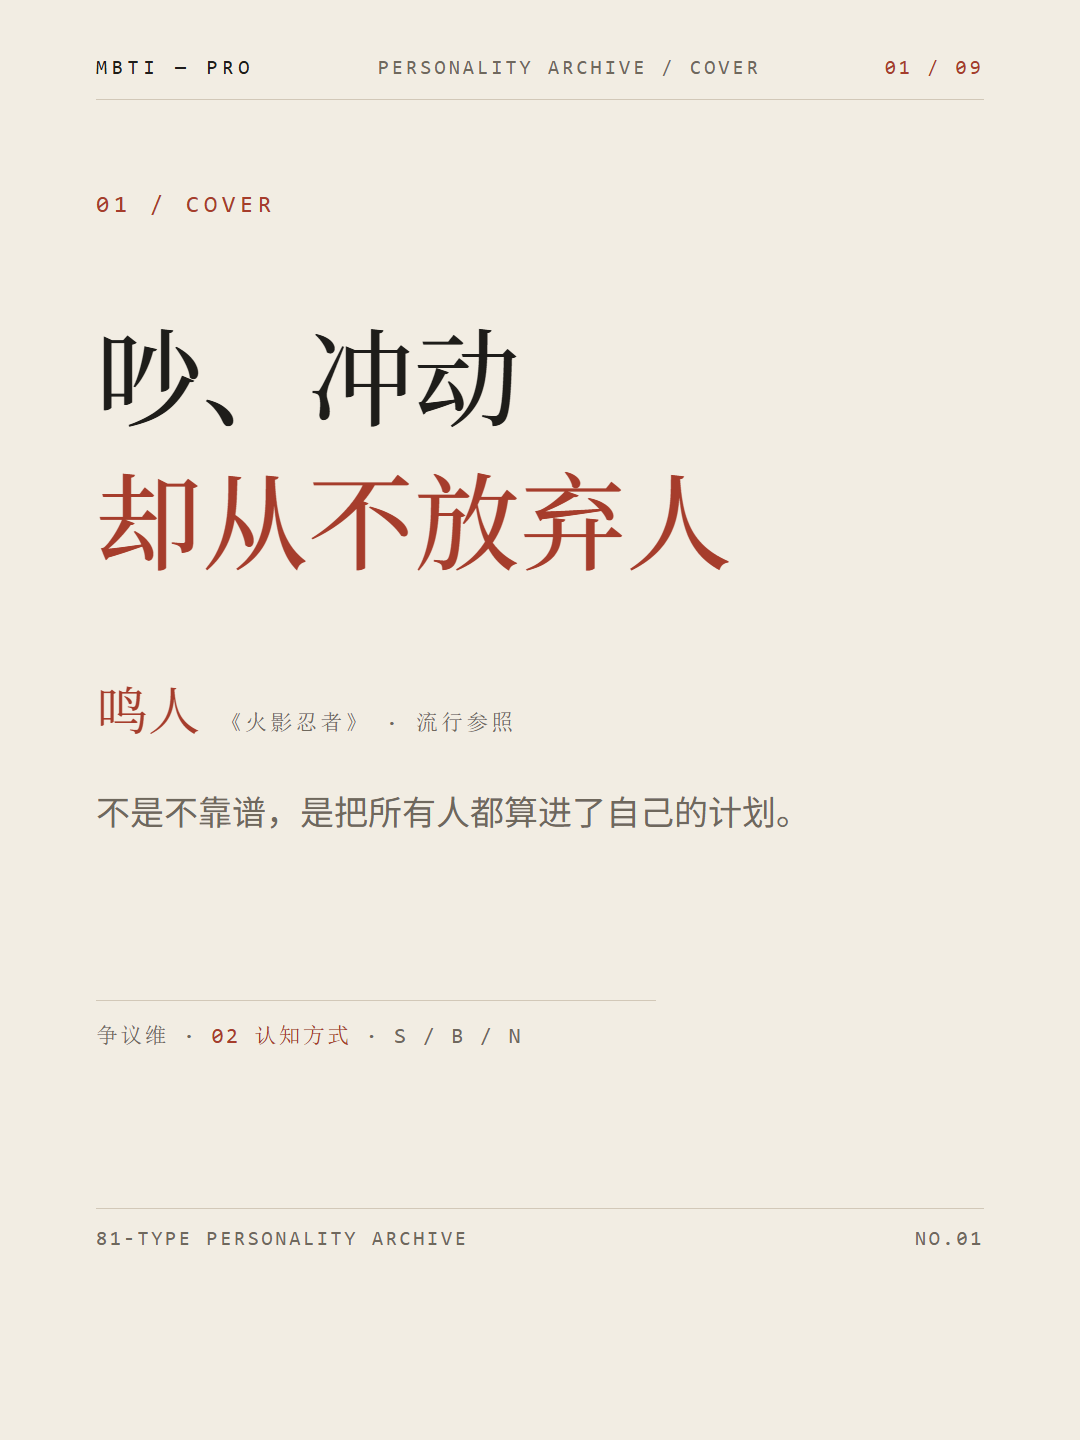
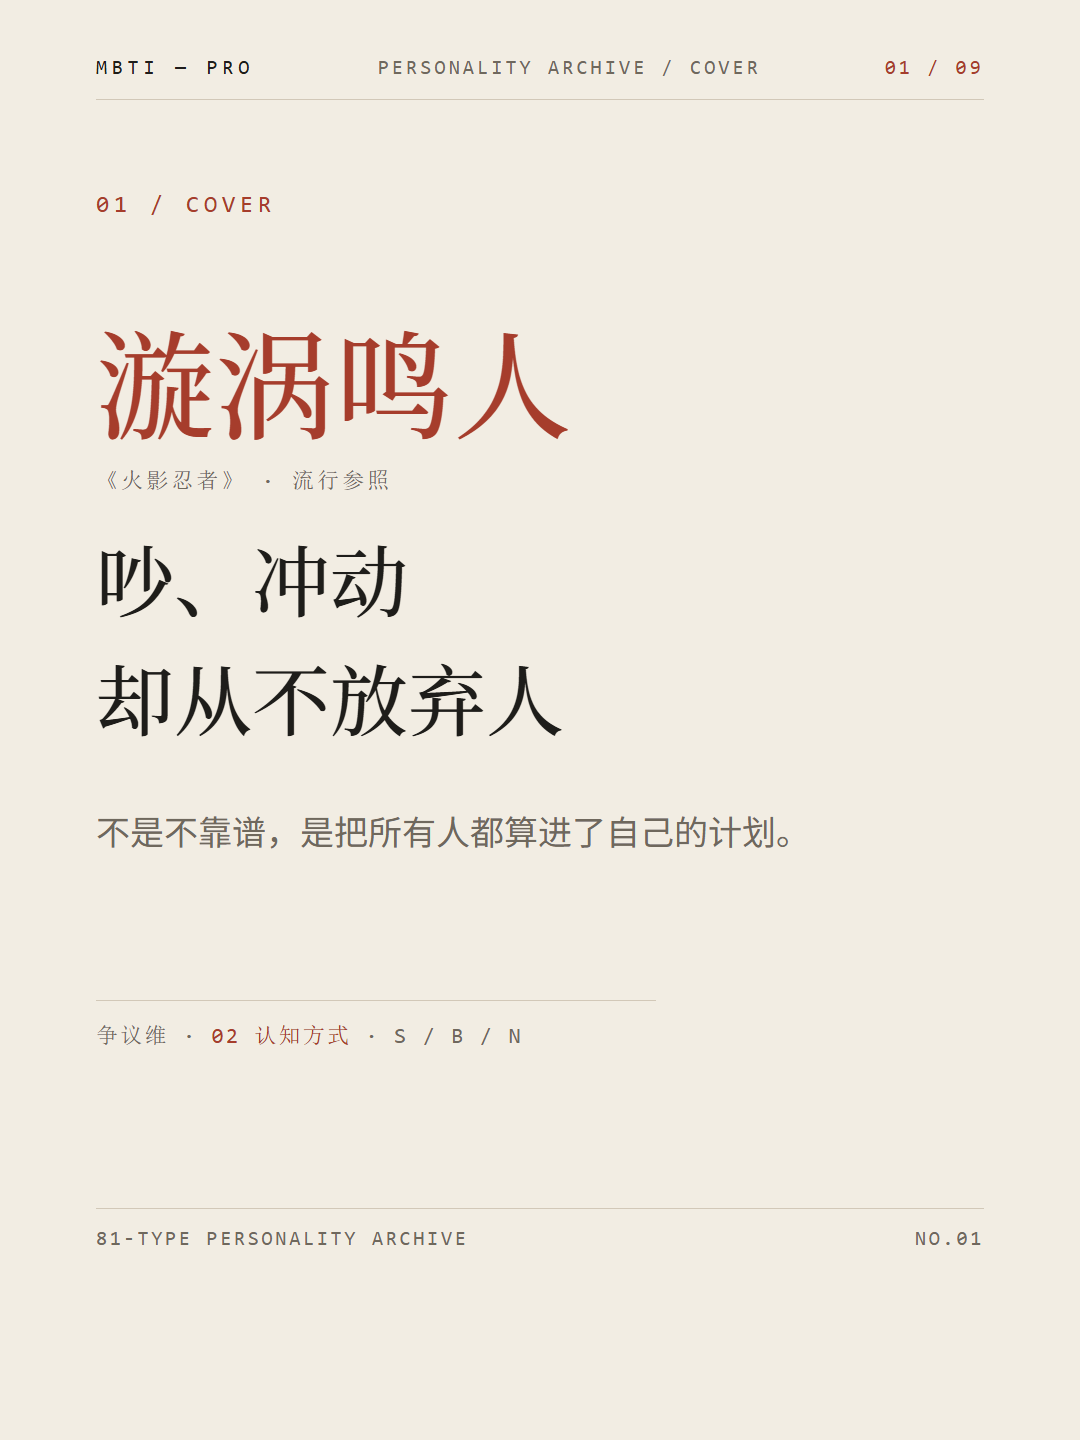
封面改版：人物名升为第一视觉（漩涡鸣人朱砂大字），发布包改单文件夹
按用户意见：
- 封面 P1 层级重排：人物名 118–168px 朱砂（按字数分档）→ 作品 + 流行参照小字
  → 钩子两行 62–78px 墨色（按最长一行自动降档）→ 关系句 → 争议维注脚
- notes-data：day1 新增 person.coverName='漩涡鸣人'（P8 人物卡仍用「鸣人」）
- day2 封面钩子改为「他不是 ESTJ / 是 ENTD」，避免与上方大字名重复
- build-week 的 P1 说明同步为「朱砂大字人物名（封面第一视觉）」
- 63 张全部重渲染；audit-cards 报「无溢出、无压脚、无重叠」
- build-publish-pack：不再产出 zip，改为单文件夹（9 图 + 00-发布包（先看这个）.txt，
  内含发布 5 步 / 标题 / 正文 / 话题 / 首评 / 图片顺序 / 免责）
- 桌面副本 C:/Users/Administrator/Desktop/小红书Day1-漩涡鸣人-2026-11-13/ 便于直传手机
- README 新增 §13 记录封面改版，§7 标注已被取代

diff --git a/docs/xhs-daily/template/cards.html b/docs/xhs-daily/template/cards.html
@@ -30,12 +30,14 @@ body { background:#DDD8CE; padding:40px 0; }
   color:var(--accent); }
 .hl { color:var(--accent); }
 
-/* 主：钩子文案 + 知名人物 + 争议点；次：结论句；注脚：类型码/坐标/公式/九组色 */
-.p1 .cover-title { position:absolute; left:96px; top:300px; font-size:106px; line-height:1.36; font-weight:500; }
-.p1 .person-line { position:absolute; left:96px; top:670px; font-size:52px; color:var(--accent); }
-.p1 .person-line span { font-size:22px; color:var(--muted); letter-spacing:.14em; margin-left:20px;
-  font-family:'DM Mono','Consolas',monospace; }
-.p1 .person-link { position:absolute; left:96px; top:780px; width:820px;
+/* 主：知名人物 + 钩子文案 + 争议点；次：关系句；注脚：类型码/坐标/公式/九组色 */
+/* 封面把「人物名」提到第一位并放到最大：15–35 岁受众先认人，再读钩子 */
+.p1 .name-wrap { position:absolute; left:96px; top:232px; height:206px; display:flex; align-items:flex-end; }
+.p1 .cover-name { line-height:1; color:var(--accent); letter-spacing:.01em; font-weight:500; }
+.p1 .person-work { position:absolute; left:96px; top:468px; font-size:22px; letter-spacing:.14em;
+  color:var(--muted); font-family:'DM Mono','Consolas',monospace; }
+.p1 .cover-title { position:absolute; left:96px; top:518px; font-size:78px; line-height:1.52; font-weight:500; }
+.p1 .person-link { position:absolute; left:96px; top:800px; width:840px;
   font-size:34px; line-height:1.8; color:var(--muted); }
 .p1 .dtag { position:absolute; left:96px; top:1000px; width:560px; padding-top:22px;
   border-top:1px solid var(--rule); font-size:22px; letter-spacing:.1em; color:var(--muted); }
@@ -133,6 +135,7 @@ const NOTE_LIBRARY = {
     "no": 1,
     "person": {
       "name": "鸣人",
+      "coverName": "漩涡鸣人",
       "work": "《火影忍者》",
       "field": "主角",
       "story": "从小被村里孤立，却天天喊着要成为火影；把每个被丢下的人都一个个拉回来。",
@@ -234,7 +237,7 @@ const NOTE_LIBRARY = {
       "link": "想得远，也肯把刚定的方案当场推翻。"
     },
     "coverLines": [
-      "钢铁侠不是 ESTJ",
+      "他不是 ESTJ",
       "是 ENTD"
     ],
     "coverHighlight": "是 ENTD",
@@ -816,12 +819,17 @@ const shell = (inner, n) => `<section class="page">
   <div class="footer mono"><span>81-TYPE PERSONALITY ARCHIVE</span><span>NO.${no2}</span></div>
 </section>`;
 
-const hlLine = t => t.includes(NOTE.coverHighlight)
-  ? '<span class="hl">' + esc(t) + '</span>' : esc(t);
+// 封面人物名优先：名字按字数分档放大，钩子按最长一行自动降档，避免压住下方关系句
+const coverName = NOTE.person.coverName || NOTE.person.name;
+const cnLen = [...coverName].length;
+const namePx = cnLen <= 2 ? 168 : cnLen === 3 ? 140 : 118;
+const maxHook = Math.max(...NOTE.coverLines.map(l => [...l].length));
+const hookPx = maxHook <= 6 ? 78 : maxHook <= 8 ? 70 : 62;
 
 const p1 = `<div class="p1" style="position:absolute;inset:0">
-  <div class="cover-title serif">${NOTE.coverLines.map(hlLine).join('<br>')}</div>
-  <div class="person-line serif">${esc(NOTE.person.name)}<span>${esc(NOTE.person.work || '')} · 流行参照</span></div>
+  <div class="name-wrap"><div class="cover-name serif" style="font-size:${namePx}px">${esc(coverName)}</div></div>
+  <div class="person-work">${esc(NOTE.person.work || '')} · 流行参照</div>
+  <div class="cover-title serif" style="font-size:${hookPx}px">${NOTE.coverLines.map(t => esc(t)).join('<br>')}</div>
   <div class="person-link">${esc(NOTE.person.link)}</div>
   <div class="dtag mono">争议维 · <b>${esc(D.dimNo)} ${esc(D.dimName)}</b> · ${esc(D.scale)}</div>
 </div>`;

diff --git a/docs/xhs-daily/week1/day1-发布包-2026-11-13.md b/docs/xhs-daily/week1/day1-发布包-2026-11-13.md
@@ -2,8 +2,12 @@
 
 > **这篇是账号第一篇**，目标是「让人看懂 81 型到底多出来的 65 种是什么」，不是卖货。
 > 图上不出现价格、二维码、店铺名；承接只走小红书店铺商品组件。
-> 图片：`docs/xhs-daily/week1/day1-发布包-2026-11-13/01.png … 09.png`（9 张 1080×1440，3:4）
-> 手机一键传：`docs/xhs-daily/week1/day1-发布包-2026-11-13.zip`（0.64 MB，含 9 图 + 文案.txt）
+> **发布包（一个文件夹，9 图 + 1 份文案）**：
+> · 项目内：`docs/xhs-daily/week1/day1-发布包-2026-11-13/`
+> · 桌面副本（传手机用）：`C:\Users\Administrator\Desktop\小红书Day1-漩涡鸣人-2026-11-13\`
+> 文件夹里：`00-发布包（先看这个）.txt` + `01.png … 09.png`（1080×1440，3:4）
+
+**传到手机的 2 步**：打开桌面那个文件夹 → `Ctrl+A` 全选 → 拖进微信「文件传输助手」→ 手机端点开 9 张图，逐张保存到相册（顺序即 01→09）。
 
 **线上状态已核（2026-11-13 02:08，我实际拉取）**
 
@@ -22,7 +26,7 @@
 
 | # | 动作 | 说明 |
 |---|---|---|
-| ① | 把 zip 发到手机（微信文件传输助手 / AirDrop） | 解压后是 01–09.png + 文案.txt |
+| ① | 把桌面文件夹里的 10 个文件传到手机 | 全选 → 微信「文件传输助手」→ 手机保存 9 张图 |
 | ② | 确认商品在架可售 | 店铺里那个 0.99 的 81 型报告，库存/自动发货正常 |
 | ③ | 确认自己能用兑换码解锁一型 | 别让第一个买家撞上「码无效」 |
 
@@ -79,7 +83,7 @@
 
 | 页 | 图上内容 | 文件 |
 |---|---|---|
-| P1 | 封面：`吵、冲动 / 却从不放弃人` + 朱砂「鸣人《火影忍者》· 流行参照」+ 关系句 | `01.png` |
+| P1 | 封面：**朱砂大字「漩涡鸣人」（118px，第一视觉）** → 小字「《火影忍者》· 流行参照」→ 钩子两行「吵、冲动 / 却从不放弃人」（78px 墨色）→ 关系句 → 争议维小字 | `01.png` |
 | P2 | 争议：`他到底是 N 还是 S，粉丝吵了很多年` + E/F/P 三维无争议 | `02.png` |
 | P3 | 说他像 N（目标看不见、没人能验证，还是拿命换） | `03.png` |
 | P4 | 说他像 S（靠身体记、讲原理听不懂、练一百遍就会） | `04.png` |

diff --git a/docs/xhs-daily/week1/day3.md b/docs/xhs-daily/week1/day3.md
@@ -44,7 +44,7 @@
 
 | 页 | 图上内容 |
 |---|---|
-| P1 | 钩子两行大字（主）｜**朱砂人物名 宇智波鼬 + 流行参照标签**｜下方关系句 ｜ 底部小字：争议维 03 决策方式 |
+| P1 | **朱砂大字人物名 宇智波鼬（封面第一视觉）** ｜ 作品 + 流行参照小字 ｜ 下方钩子两行 ｜ 底部小字：争议维 03 决策方式 |
 | P2 | 争议大字：「一个人灭掉自己全族，这算冷血，还是算深情？」｜I、N、J 三维没什么分歧，吵的全是第 03 维。 |
 | P3 | 像 T 的地方（T 一侧的证据） |
 | P4 | 像 F 的地方（F 一侧的证据） |

diff --git a/docs/xhs-daily/week1/day4.md b/docs/xhs-daily/week1/day4.md
@@ -44,7 +44,7 @@
 
 | 页 | 图上内容 |
 |---|---|
-| P1 | 钩子两行大字（主）｜**朱砂人物名 路飞 + 流行参照标签**｜下方关系句 ｜ 底部小字：争议维 02 认知方式 |
+| P1 | **朱砂大字人物名 路飞（封面第一视觉）** ｜ 作品 + 流行参照小字 ｜ 下方钩子两行 ｜ 底部小字：争议维 02 认知方式 |
 | P2 | 争议大字：「他靠的是眼睛，还是那种说不清的直觉？」｜E、F、P 三维口径清楚，唯独第 02 维一直有人不服。 |
 | P3 | 像 S 的地方（S 一侧的证据） |
 | P4 | 像 N 的地方（N 一侧的证据） |

diff --git a/docs/xhs-daily/week1/day2.md b/docs/xhs-daily/week1/day2.md
@@ -44,7 +44,7 @@
 
 | 页 | 图上内容 |
 |---|---|
-| P1 | 钩子两行大字（主）｜**朱砂人物名 钢铁侠 + 流行参照标签**｜下方关系句 ｜ 底部小字：争议维 04 生活态度 |
+| P1 | **朱砂大字人物名 钢铁侠（封面第一视觉）** ｜ 作品 + 流行参照小字 ｜ 下方钩子两行 ｜ 底部小字：争议维 04 生活态度 |
 | P2 | 争议大字：「他到底是 J 还是 P，评论区每次都能吵起来。」｜E、N、T 三维口径一致，分歧全在第 04 维。 |
 | P3 | 像 J 的地方（J 一侧的证据） |
 | P4 | 像 P 的地方（P 一侧的证据） |

diff --git a/docs/xhs-daily/week1/day5.md b/docs/xhs-daily/week1/day5.md
@@ -44,7 +44,7 @@
 
 | 页 | 图上内容 |
 |---|---|
-| P1 | 钩子两行大字（主）｜**朱砂人物名 柯南 + 流行参照标签**｜下方关系句 ｜ 底部小字：争议维 01 能量来源 |
+| P1 | **朱砂大字人物名 柯南（封面第一视觉）** ｜ 作品 + 流行参照小字 ｜ 下方钩子两行 ｜ 底部小字：争议维 01 能量来源 |
 | P2 | 争议大字：「他到底算 E 还是 I？破案时和平时完全是两个人。」｜N、T、J 三维口径一致，分歧全在第 01 维。 |
 | P3 | 像 E 的地方（E 一侧的证据） |
 | P4 | 像 I 的地方（I 一侧的证据） |

diff --git a/docs/xhs-daily/week1/day7.md b/docs/xhs-daily/week1/day7.md
@@ -44,7 +44,7 @@
 
 | 页 | 图上内容 |
 |---|---|
-| P1 | 钩子两行大字（主）｜**朱砂人物名 赫敏 + 流行参照标签**｜下方关系句 ｜ 底部小字：争议维 01 能量来源 |
+| P1 | **朱砂大字人物名 赫敏（封面第一视觉）** ｜ 作品 + 流行参照小字 ｜ 下方钩子两行 ｜ 底部小字：争议维 01 能量来源 |
 | P2 | 争议大字：「她到底是最吵的那个，还是最安静的那个？」｜S、T、J 三维没什么分歧，分歧全在第 01 维。 |
 | P3 | 像 E 的地方（E 一侧的证据） |
 | P4 | 像 I 的地方（I 一侧的证据） |

diff --git a/docs/xhs-daily/week1/day1.md b/docs/xhs-daily/week1/day1.md
@@ -44,7 +44,7 @@
 
 | 页 | 图上内容 |
 |---|---|
-| P1 | 钩子两行大字（主）｜**朱砂人物名 鸣人 + 流行参照标签**｜下方关系句 ｜ 底部小字：争议维 02 认知方式 |
+| P1 | **朱砂大字人物名 漩涡鸣人（封面第一视觉）** ｜ 作品 + 流行参照小字 ｜ 下方钩子两行 ｜ 底部小字：争议维 02 认知方式 |
 | P2 | 争议大字：「他到底是 N 还是 S，粉丝吵了很多年。」｜E、F、P 三维几乎没人有意见，吵的全是第 02 维。 |
 | P3 | 说他像 N（N 一侧的证据） |
 | P4 | 说他像 S（S 一侧的证据） |

diff --git a/docs/xhs-daily/week1/day6.md b/docs/xhs-daily/week1/day6.md
@@ -44,7 +44,7 @@
 
 | 页 | 图上内容 |
 |---|---|
-| P1 | 钩子两行大字（主）｜**朱砂人物名 L + 流行参照标签**｜下方关系句 ｜ 底部小字：争议维 04 生活态度 |
+| P1 | **朱砂大字人物名 L（封面第一视觉）** ｜ 作品 + 流行参照小字 ｜ 下方钩子两行 ｜ 底部小字：争议维 04 生活态度 |
 | P2 | 争议大字：「他到底是把局算尽了，还是根本没什么计划？」｜I、N、T 三维没有分歧，吵的全是第 04 维。 |
 | P3 | 像 J 的地方（J 一侧的证据） |
 | P4 | 像 P 的地方（P 一侧的证据） |
